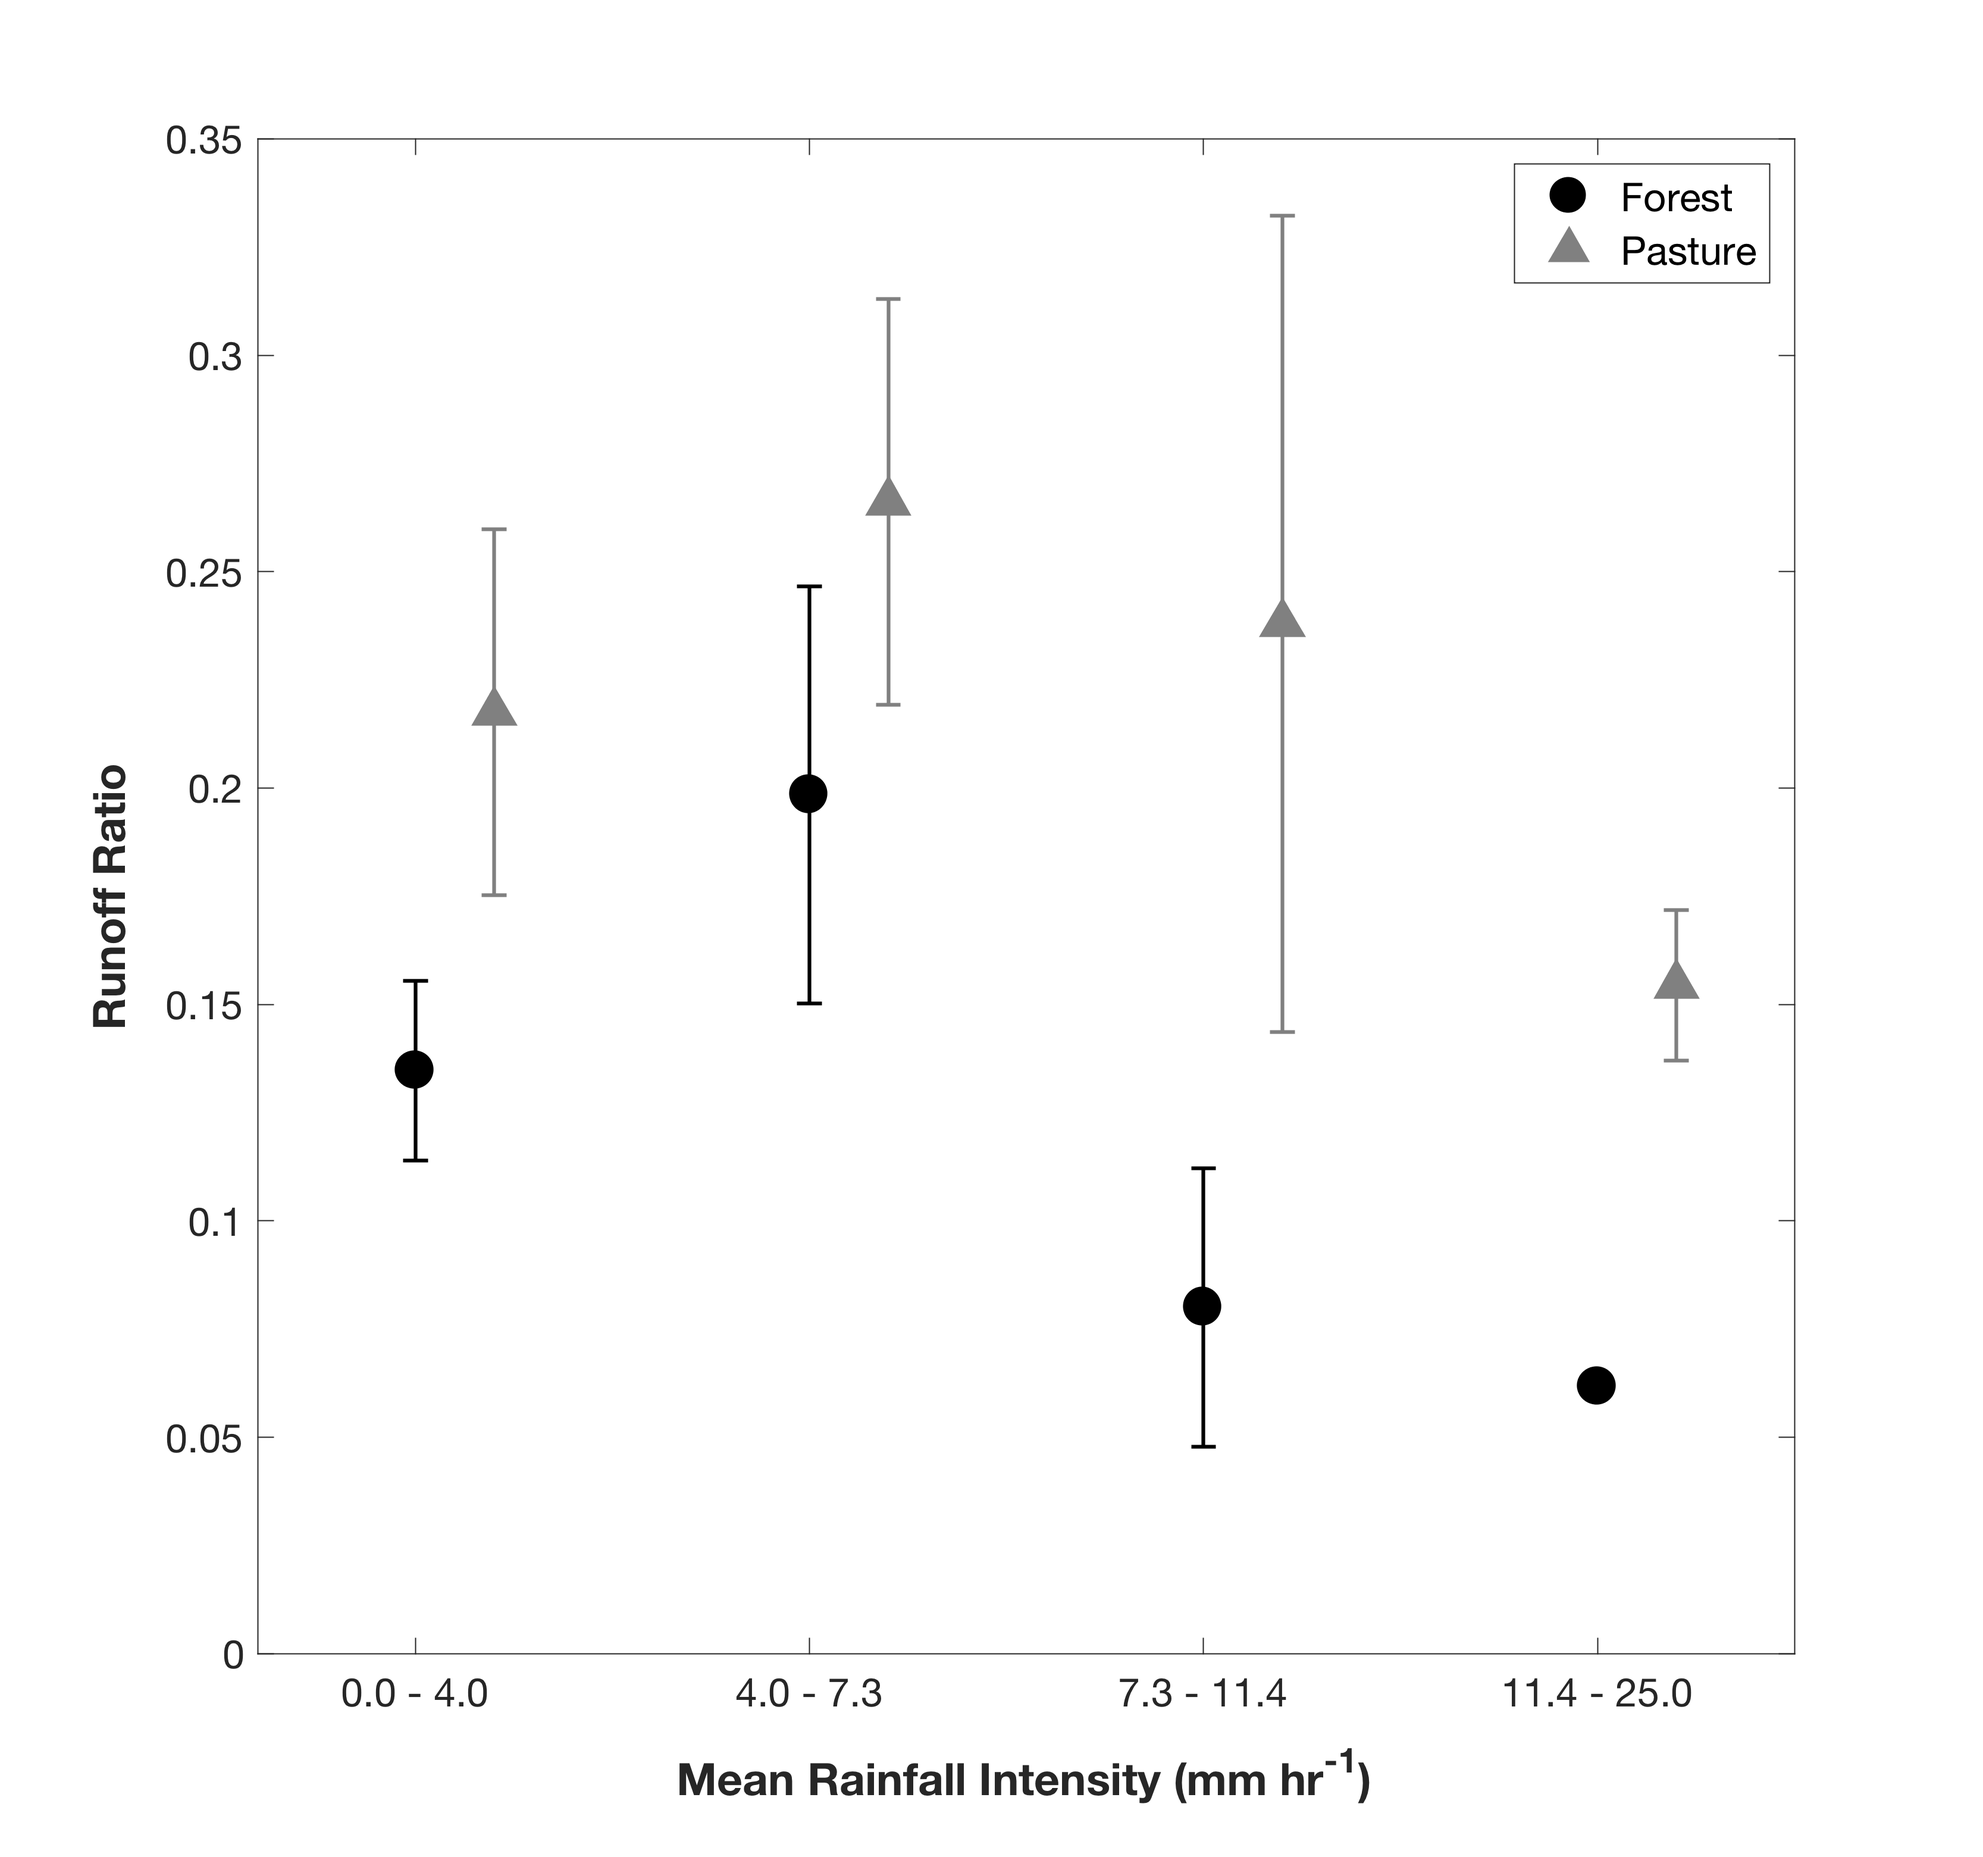
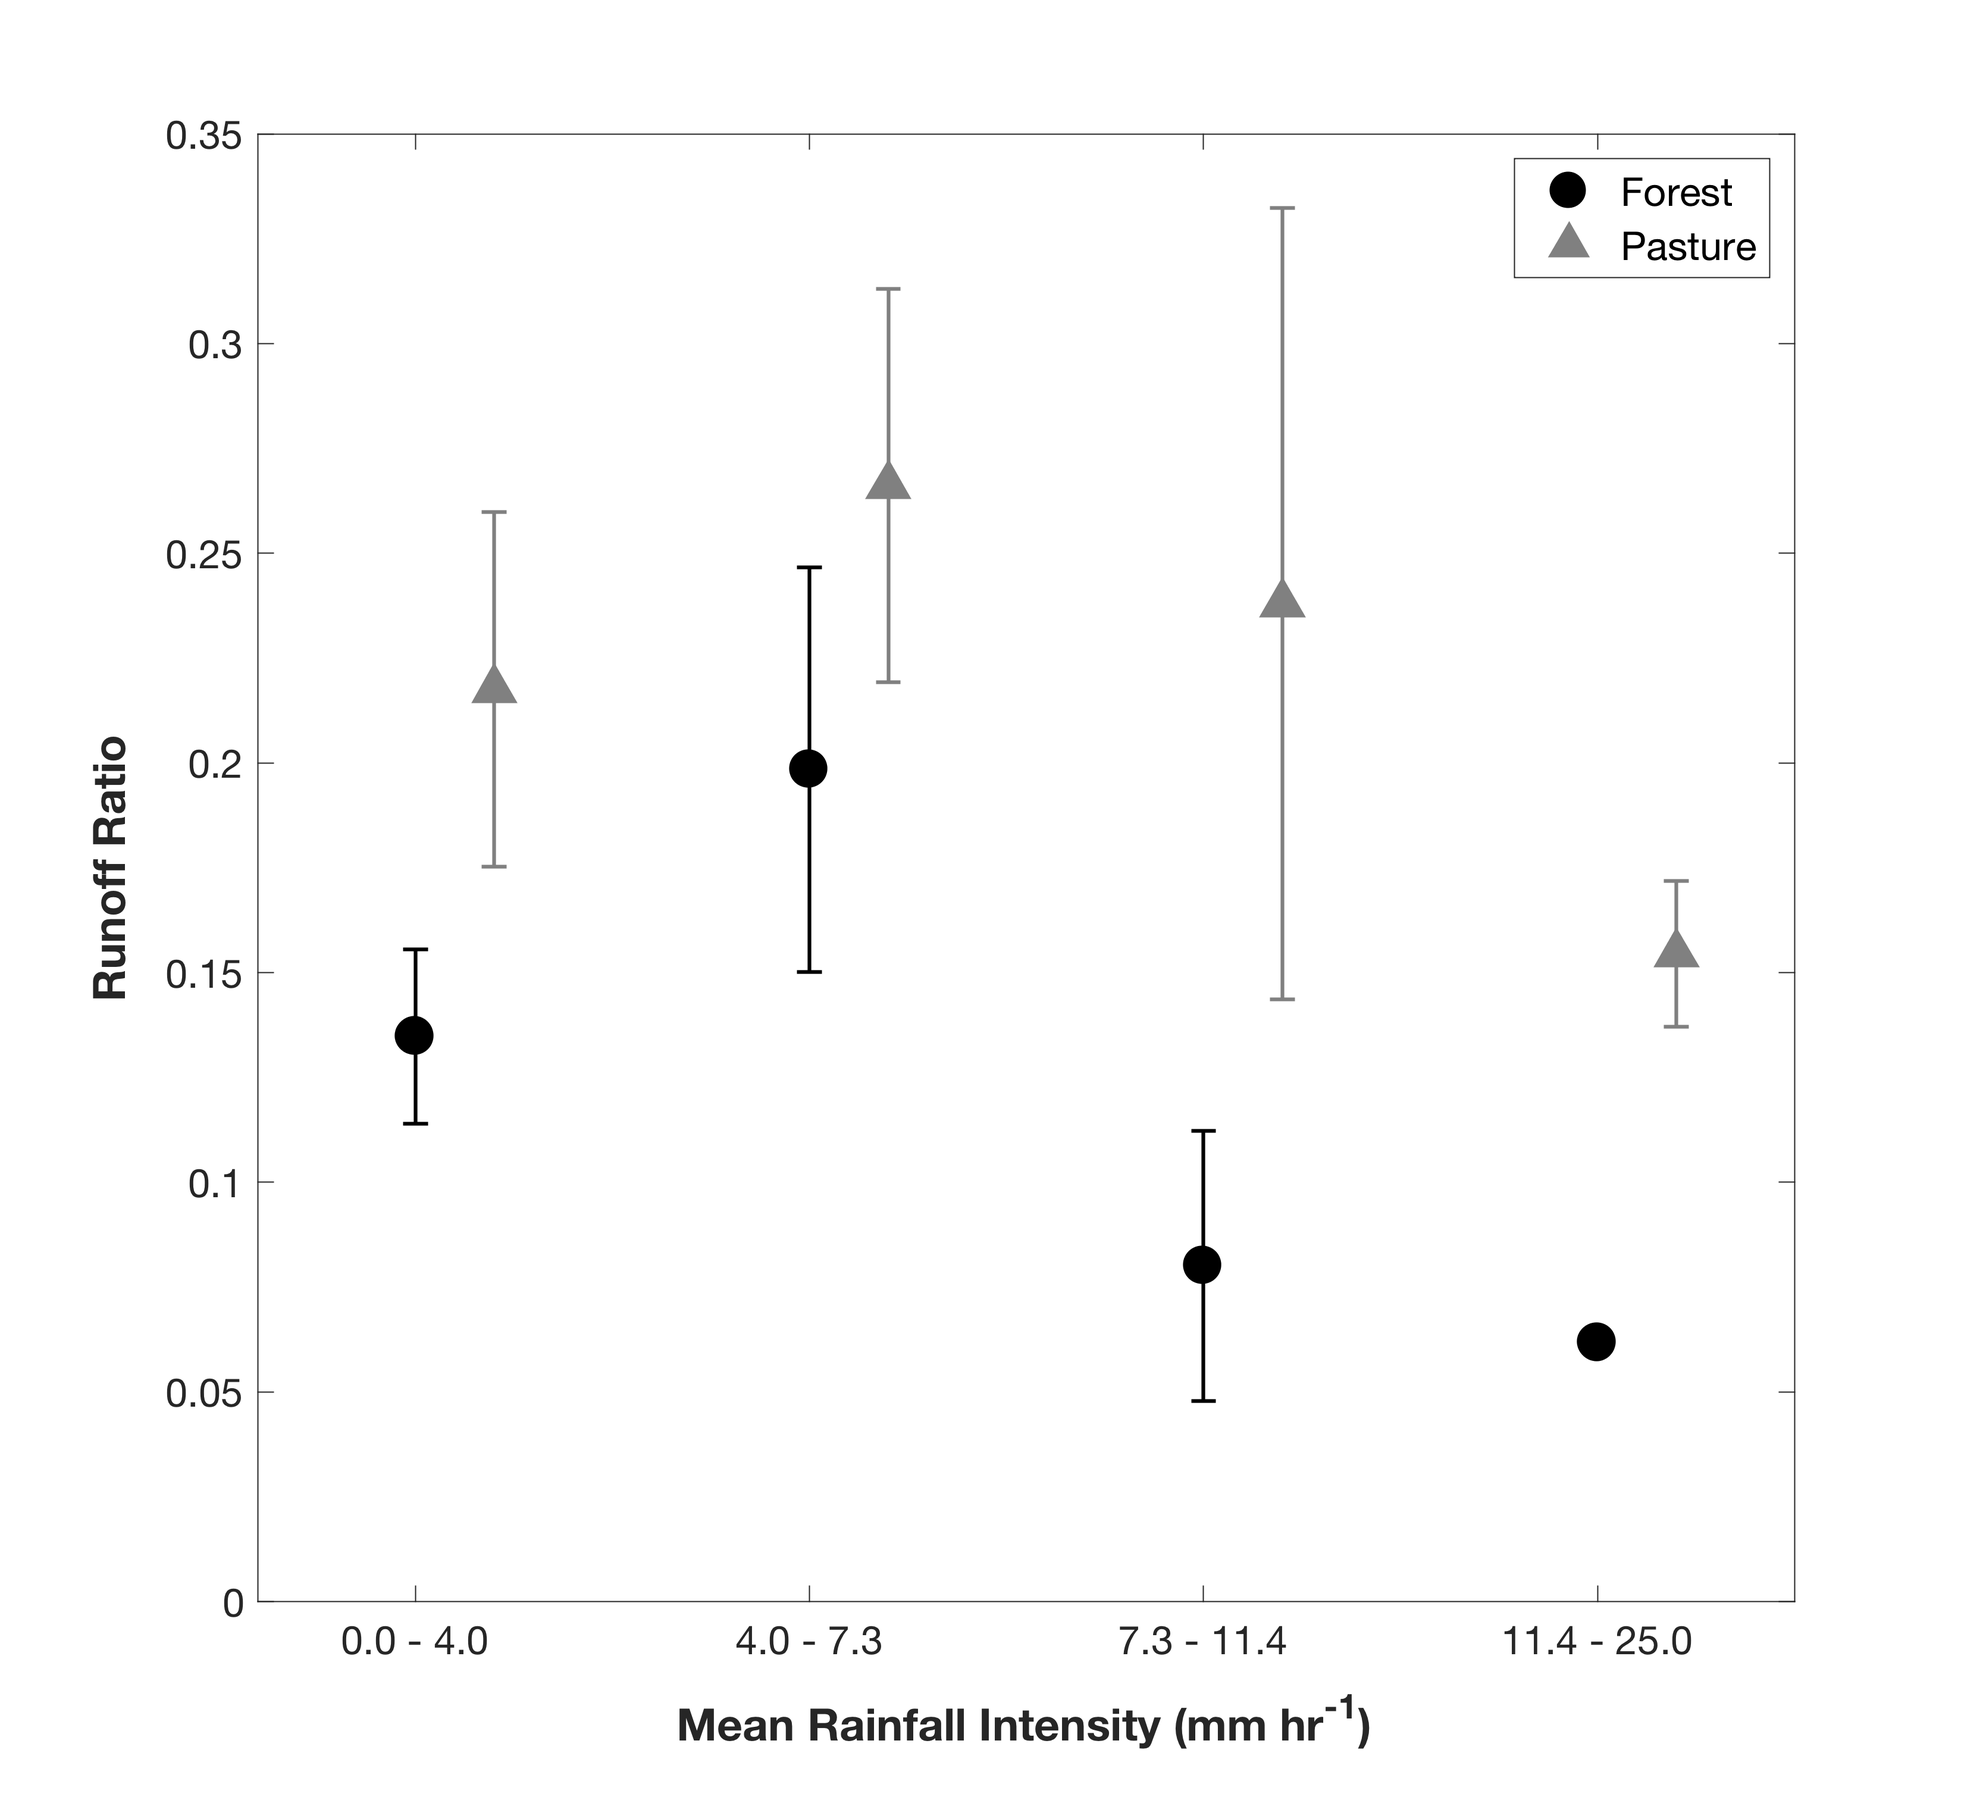
Made plotDualAlt grayscale. Removed BOTH csv files.

Changed region(s): [[0.7801, 0.0932, 0.9049, 0.1554], [0.0312, 0.404, 0.0624, 0.4661], [0.0312, 0.5283, 0.0624, 0.5593]]

diff --git a/PrecipRunoff/RainEvents/C_RainEvent.m b/PrecipRunoff/RainEvents/C_RainEvent.m
@@ -196,6 +196,7 @@ classdef C_RainEvent < handle
             titleFontSize = 20;
             axisFontSize = 16;
             labelFontSize = 18;
+            grayscale = true;
 
             % Set the current figure to the passed handle, if available.
             if ishandle(figHandle)
@@ -212,7 +213,11 @@ classdef C_RainEvent < handle
             %This is the first part of the subplot - precip
             ax(1)= axes('position',[leftcorner bottomcorner1 width height]);
             % plot(obj.precipTimes, precip, 'LineWidth', linewidth);
-            bar(obj.precipTimes, precip);
+            barHandle = bar(obj.precipTimes, precip);
+            if grayscale == true
+              barHandle(1).FaceColor = [0, 0, 0]+0.1;
+              barHandle(1).EdgeColor = barHandle(1).FaceColor;
+            end
             % TODO: Revert the hard coding of these axes.
             ax(1).YLim(2) = 16;
             %             g=gca;
@@ -360,6 +365,8 @@ classdef C_RainEvent < handle
               warning(['plotBar called with invalid arguments: ' origOrMod ' ' type]);
           end
 
+          grayscale = true;
+
             % Consider switching BOTH to just TB here, would be ugly to plot all
             % 6 TB and runoff bars together.
             % Choose the precip values to plot.
@@ -406,7 +413,11 @@ classdef C_RainEvent < handle
                 for i = 1:length(handle)
                     % Don't plot the first bar with the same color as the
                     % precip
-                    handle(i).FaceColor = cmap(i+1,:);
+                    if grayscale == true
+                        handle(i).FaceColor = [0, 0, 0]+0.2*(i);
+                    else
+                        handle(i).FaceColor = cmap(i+1,:);
+                    end
                     handle(i).EdgeColor = handle(i).FaceColor;
                 end
                 legText = [legText {['Lower'], ['Middle'], ['Upper']}];
@@ -439,7 +450,7 @@ classdef C_RainEvent < handle
             ylab = ylabel('VWC (%)', 'FontSize', 18, 'FontWeight', 'bold');
             ylab.Units = 'Normalized';
             ylab.Position = ylab.Position + [0.015 0 0];
-            % Remove the downward pointing tick marks. 
+            % Remove the downward pointing tick marks.
             box(gca, 'off');
 
             % One of the lines is plain dotted, hard to see. Add a marker.
@@ -592,7 +603,7 @@ classdef C_RainEvent < handle
 %%%%%%%%%%%%%%%%%%%%%%%%%%%%%%%%%%%%%%%%%%%%%%%%%%%%%%%%%%%%%%%%%%%%%%%%%%%%%%%%
 % Data Export.
 %%%%%%%%%%%%%%%%%%%%%%%%%%%%%%%%%%%%%%%%%%%%%%%%%%%%%%%%%%%%%%%%%%%%%%%%%%%%%%%%
-        function exportPrecipRunof(obj, origOrMod, type, whichEvt)
+        function exportPrecipRunoff(obj, origOrMod, type, whichEvt)
             % Exports precip and runoff data from an event to a .csv.
             genPlots = false;
 
@@ -602,7 +613,7 @@ classdef C_RainEvent < handle
             type = upper(type);
             typeOK = any(strcmp(type, {'TB', 'LL', 'BOTH'}));
             if ~typeOK || ~origOrModOK
-                warning(['exportPrecipRunof called with invalid arguments: ' origOrMod ' ' type ' ' num2str(whichEvt)]);
+                warning(['exportPrecipRunoff called with invalid arguments: ' origOrMod ' ' type ' ' num2str(whichEvt)]);
             end
 
             [precip, runoffEvents, rrText] = obj.selectPlotData(origOrMod, type, false);
@@ -639,7 +650,7 @@ classdef C_RainEvent < handle
                 % check that we're working with 10-minute data.
                 runTimeRes = runTimes(2) - runTimes(1);
                 if runTimeRes ~= minutes(10)
-                    warning('C_RainEvent.exportPrecipRunof: runoff time series with non-uniform timestamps.');
+                    warning('C_RainEvent.exportPrecipRunoff: runoff time series with non-uniform timestamps.');
                 end
                 % Make sure we take into account the possible shifting of values.
                 runVals = C_RainEvent.shiftVals(runoffEvents(runIdx).valsModified, runoffEvents(runIdx).valsShift);
@@ -674,7 +685,7 @@ classdef C_RainEvent < handle
                 elseif 6 == length(runoffEvents)
                     legend({'precip', 'low', 'mid', 'up', 'low', 'mid', 'up', 'avg'});
                 else
-                    warning(['C_RainEvent.exportPrecipRunof: Got an unexpected number (' num2str(length(runoffEvents)) ') of runoff sources.']);
+                    warning(['C_RainEvent.exportPrecipRunoff: Got an unexpected number (' num2str(length(runoffEvents)) ') of runoff sources.']);
                 end
                 title([obj.site ' ' num2str(whichEvt) ' ' type ' ' datestr(obj.startTime)]);
                 hold off;

diff --git a/PrecipRunoff/RainEvents/plotGoodRR.m b/PrecipRunoff/RainEvents/plotGoodRR.m
@@ -409,7 +409,7 @@ details.filename = 'Export/Good_AvgI.png';
 % edges = [ 0    5.1359   11.6378   19.8397   25]; % Arnulfo Multi Year
 edges = [0    3.9744    7.3152   11.3707   25]; % Guabo Camp Multi Year
 % edges = linspace(0, 37, 6);
-plotErrorBars('AvgI', 'RR', data, details, edges);
+handleAvgI = plotErrorBars('AvgI', 'RR', data, details, edges);
 
 % Plot Peak Intensity Vs RR.
 details.xlab = 'Maximum Rainfall Intensity (mm hr^{-1})';
@@ -421,7 +421,7 @@ details.filename = 'Export/Good_PeakI.png';
 % edges = [0   27.4320   54.8640  109.7280  250]; % Arnulfo Multi Year
 edges = [ 0   21.3360   30.4800   41.9100  250]; % Guabo Camp Multi Year
 % edges = linspace(0, 125, 6);
-plotErrorBars('PI', 'RR', data, details, edges);
+handlePI = plotErrorBars('PI', 'RR', data, details, edges);
 
 % Plot Duration Vs RR.
 details.xlab = 'Duration (minutes)';
@@ -433,7 +433,12 @@ details.filename = 'Export/Good_Dur.png';
 % edges = [ 0    70   130   240   410]; % Arnulfo Multi Year
 edges = [0   60   110   180   410]; % Guabo Camp Multi Year
 % edges = linspace(0, 680, 6);
-plotErrorBars('durationMins', 'RR', data, details, edges);
+handleDur = plotErrorBars('durationMins', 'RR', data, details, edges);
+
+allEBOnePlot = true;
+if allEBOnePlot == true
+
+end
 
 % Plot Precip Total vs RR.
 % details.xlab = 'Precip Total (mm)';

diff --git a/PrecipRunoff/RainEvents/plotMatchedEvts.m b/PrecipRunoff/RainEvents/plotMatchedEvts.m
@@ -76,7 +76,7 @@ for evtIdx = 1:length(evts.idx)
     if isfield(mergeRR.(evts.site(evtIdx, :)), fieldName) && includeMerge
         evts.merged(evtIdx) = 1;
         thisEvt.avgRR = thisEvt.stats.mod.RR.both.precip;
-        % Merged events use both LL and TB for exportPrecipRunof
+        % Merged events use both LL and TB for exportPrecipRunoff
         evts.type(evtIdx, :) = 'BO';
     else
         evts.merged(evtIdx) = 0;
@@ -307,7 +307,7 @@ for evt = 1:length(matIdxs)
         type = 'BOTH';
     end
     whichEvt = matEvtIdx(matIdxs(evt));
-    matEvts(matIdxs(evt)).exportPrecipRunof('mod', type, whichEvt);
+    matEvts(matIdxs(evt)).exportPrecipRunoff('mod', type, whichEvt);
 end
 
 pasIdxs = find(matchedPASEvts);
@@ -317,7 +317,7 @@ for evt = 1:length(pasIdxs)
         type = 'BOTH';
     end
     whichEvt = pasEvtIdx(pasIdxs(evt));
-    pasEvts(pasIdxs(evt)).exportPrecipRunof('mod', type, whichEvt);
+    pasEvts(pasIdxs(evt)).exportPrecipRunoff('mod', type, whichEvt);
 end
 
 % Create summary statistics and save to .csvs
